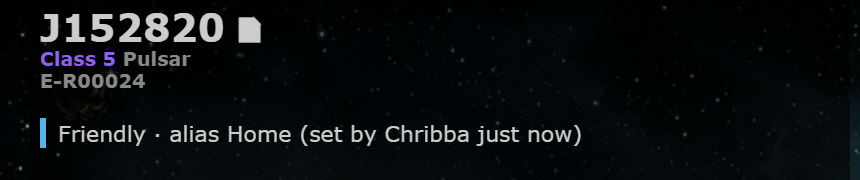
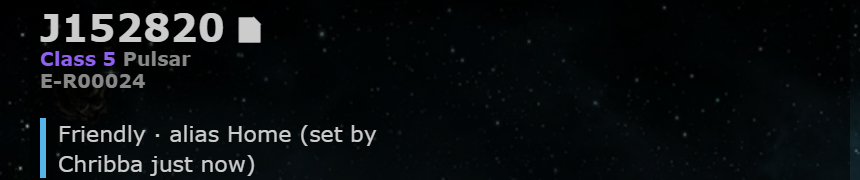
System status review round 2: NOT EXISTS eviction, info line under the faction line

Changed region(s): [[0.0302, 0.8333, 0.3023, 1.0], [0.4233, 0.6944, 0.6953, 0.8056]]

diff --git a/app/js/fork/system-status.js b/app/js/fork/system-status.js
@@ -209,14 +209,14 @@ const systemStatus = {
 		$("#chainMap .node[data-nodeid]").each(function() { systemStatus.patchNode(this, on); });
 	},
 
-	/** The system info panel line for the viewed system: before the activity graph, re-rendered from systemChange and the
+	/** The system info panel line for the viewed system: under the faction line, re-rendered from systemChange and the
 	poll tick. Hidden when the setting is off. */
 	renderInfo: function() {
 		let $el = $("#systemStatusInfo");
-		const $anchor = $("#infoWidget #activityGraph");
+		const $anchor = $("#infoWidget #infoFaction");	// static markup in the left column, away from the threat section
 		if (!$anchor.length || !systemStatus.enabled(systemStatus.options())) { $el.remove(); return; }
 		if (!$el.length) { $el = $("<div id='systemStatusInfo' class='sysstatus-info'></div>"); }
-		if ($el.next()[0] !== $anchor[0]) { $anchor.before($el.detach()); }
+		if ($anchor.next()[0] !== $el[0]) { $anchor.after($el.detach()); }
 		const id = typeof viewingSystemID !== "undefined" ? viewingSystemID : null;
 		const row = id ? systemStatus.rows[String(id)] : null;
 		const line = systemStatus.infoLine(row);

diff --git a/app/css/fork/system-status.css b/app/css/fork/system-status.css
@@ -65,8 +65,7 @@
 
 /* System info panel line */
 .sysstatus-info {
-	clear: both;
-	margin: 3px 0 2px;
+	margin: 3px 0 2px;	/* in the info panel's left column, under the faction line */
 	padding-left: 6px;
 	font-size: 11px;
 	line-height: 15px;

diff --git a/tests/system_status_test.php b/tests/system_status_test.php
@@ -101,6 +101,16 @@ ss_test_sig($mysql, $maskA, 'tst003', 31000003);
 ss_test_sig($mysql, $maskA, 'tst004', 31000004);
 check('full and all on the chain: refused', system_status_update($mysql, $maskA, 31000005, array('status' => 'hostile'), 'A'), false);
 $mysql->exec("DELETE FROM signatures WHERE maskID = '$maskA'");
+// A signature with a NULL systemID (NOT IN would match nothing then) must not stop eviction
+$nullable = $mysql->query("SELECT IS_NULLABLE FROM information_schema.columns WHERE table_schema = DATABASE() AND table_name = 'signatures' AND column_name = 'systemID'")->fetchColumn();
+if ($nullable === 'YES') {
+	$mysql->exec("INSERT INTO signatures (signatureID, systemID, type, name, lifeLength, createdByID, createdByName, modifiedByID, modifiedByName, maskID)
+		VALUES ('tstnul', NULL, 'wormhole', '', 86400, 1, 'test', 1, 'test', '$maskA')");
+	check('NULL-systemID signature: still evicts', system_status_update($mysql, $maskA, 31000006, array('status' => 'hostile'), 'A')['systemID'], 31000006);
+	$mysql->exec("DELETE FROM signatures WHERE maskID = '$maskA'");
+} else {
+	check('signatures.systemID is NOT NULL here (NULL case not reachable)', true, true);
+}
 // Poll hash: same rows, same hash; any change, other hash
 $rowsNow = system_status_list($mysql, $maskA);
 check('hash stable', system_status_hash($rowsNow), system_status_hash(system_status_list($mysql, $maskA)));

diff --git a/system_status.inc.php b/system_status.inc.php
@@ -26,7 +26,7 @@ function system_status_hash(array $rows) {
 /** Drop the mask's oldest row (by setAt) of a system with no signature of the mask in it. True when one was dropped. */
 function system_status_evict($mysql, $mask) {
 	$stmt = $mysql->prepare('DELETE FROM fork_system_status WHERE maskID = :mask
-		AND systemID NOT IN (SELECT systemID FROM signatures WHERE maskID = :mask2)
+		AND NOT EXISTS (SELECT 1 FROM signatures s WHERE s.maskID = :mask2 AND s.systemID = fork_system_status.systemID)
 		ORDER BY setAt, systemID LIMIT 1');
 	if (!$stmt) throw new PDOException('Could not prepare system status evict');
 	$stmt->bindValue(':mask', $mask);

diff --git a/public/system_status.php b/public/system_status.php
@@ -84,7 +84,8 @@ try {
 	try {
 		$systems = system_status_list($mysql, $mask);
 	} catch (PDOException $e) {
-		if ($e->getCode() !== '42S02' && stripos($e->getMessage(), "doesn't exist") === false) throw $e;
+		// Exception or silent error mode (the connection is shared, so its mode is not changed): either way a failed
+		// first read is retried once after creating the table; a second failure is a real error and propagates
 		system_status_ensure_table($mysql);	// first read ever: nothing set yet
 		$systems = system_status_list($mysql, $mask);
 	}
